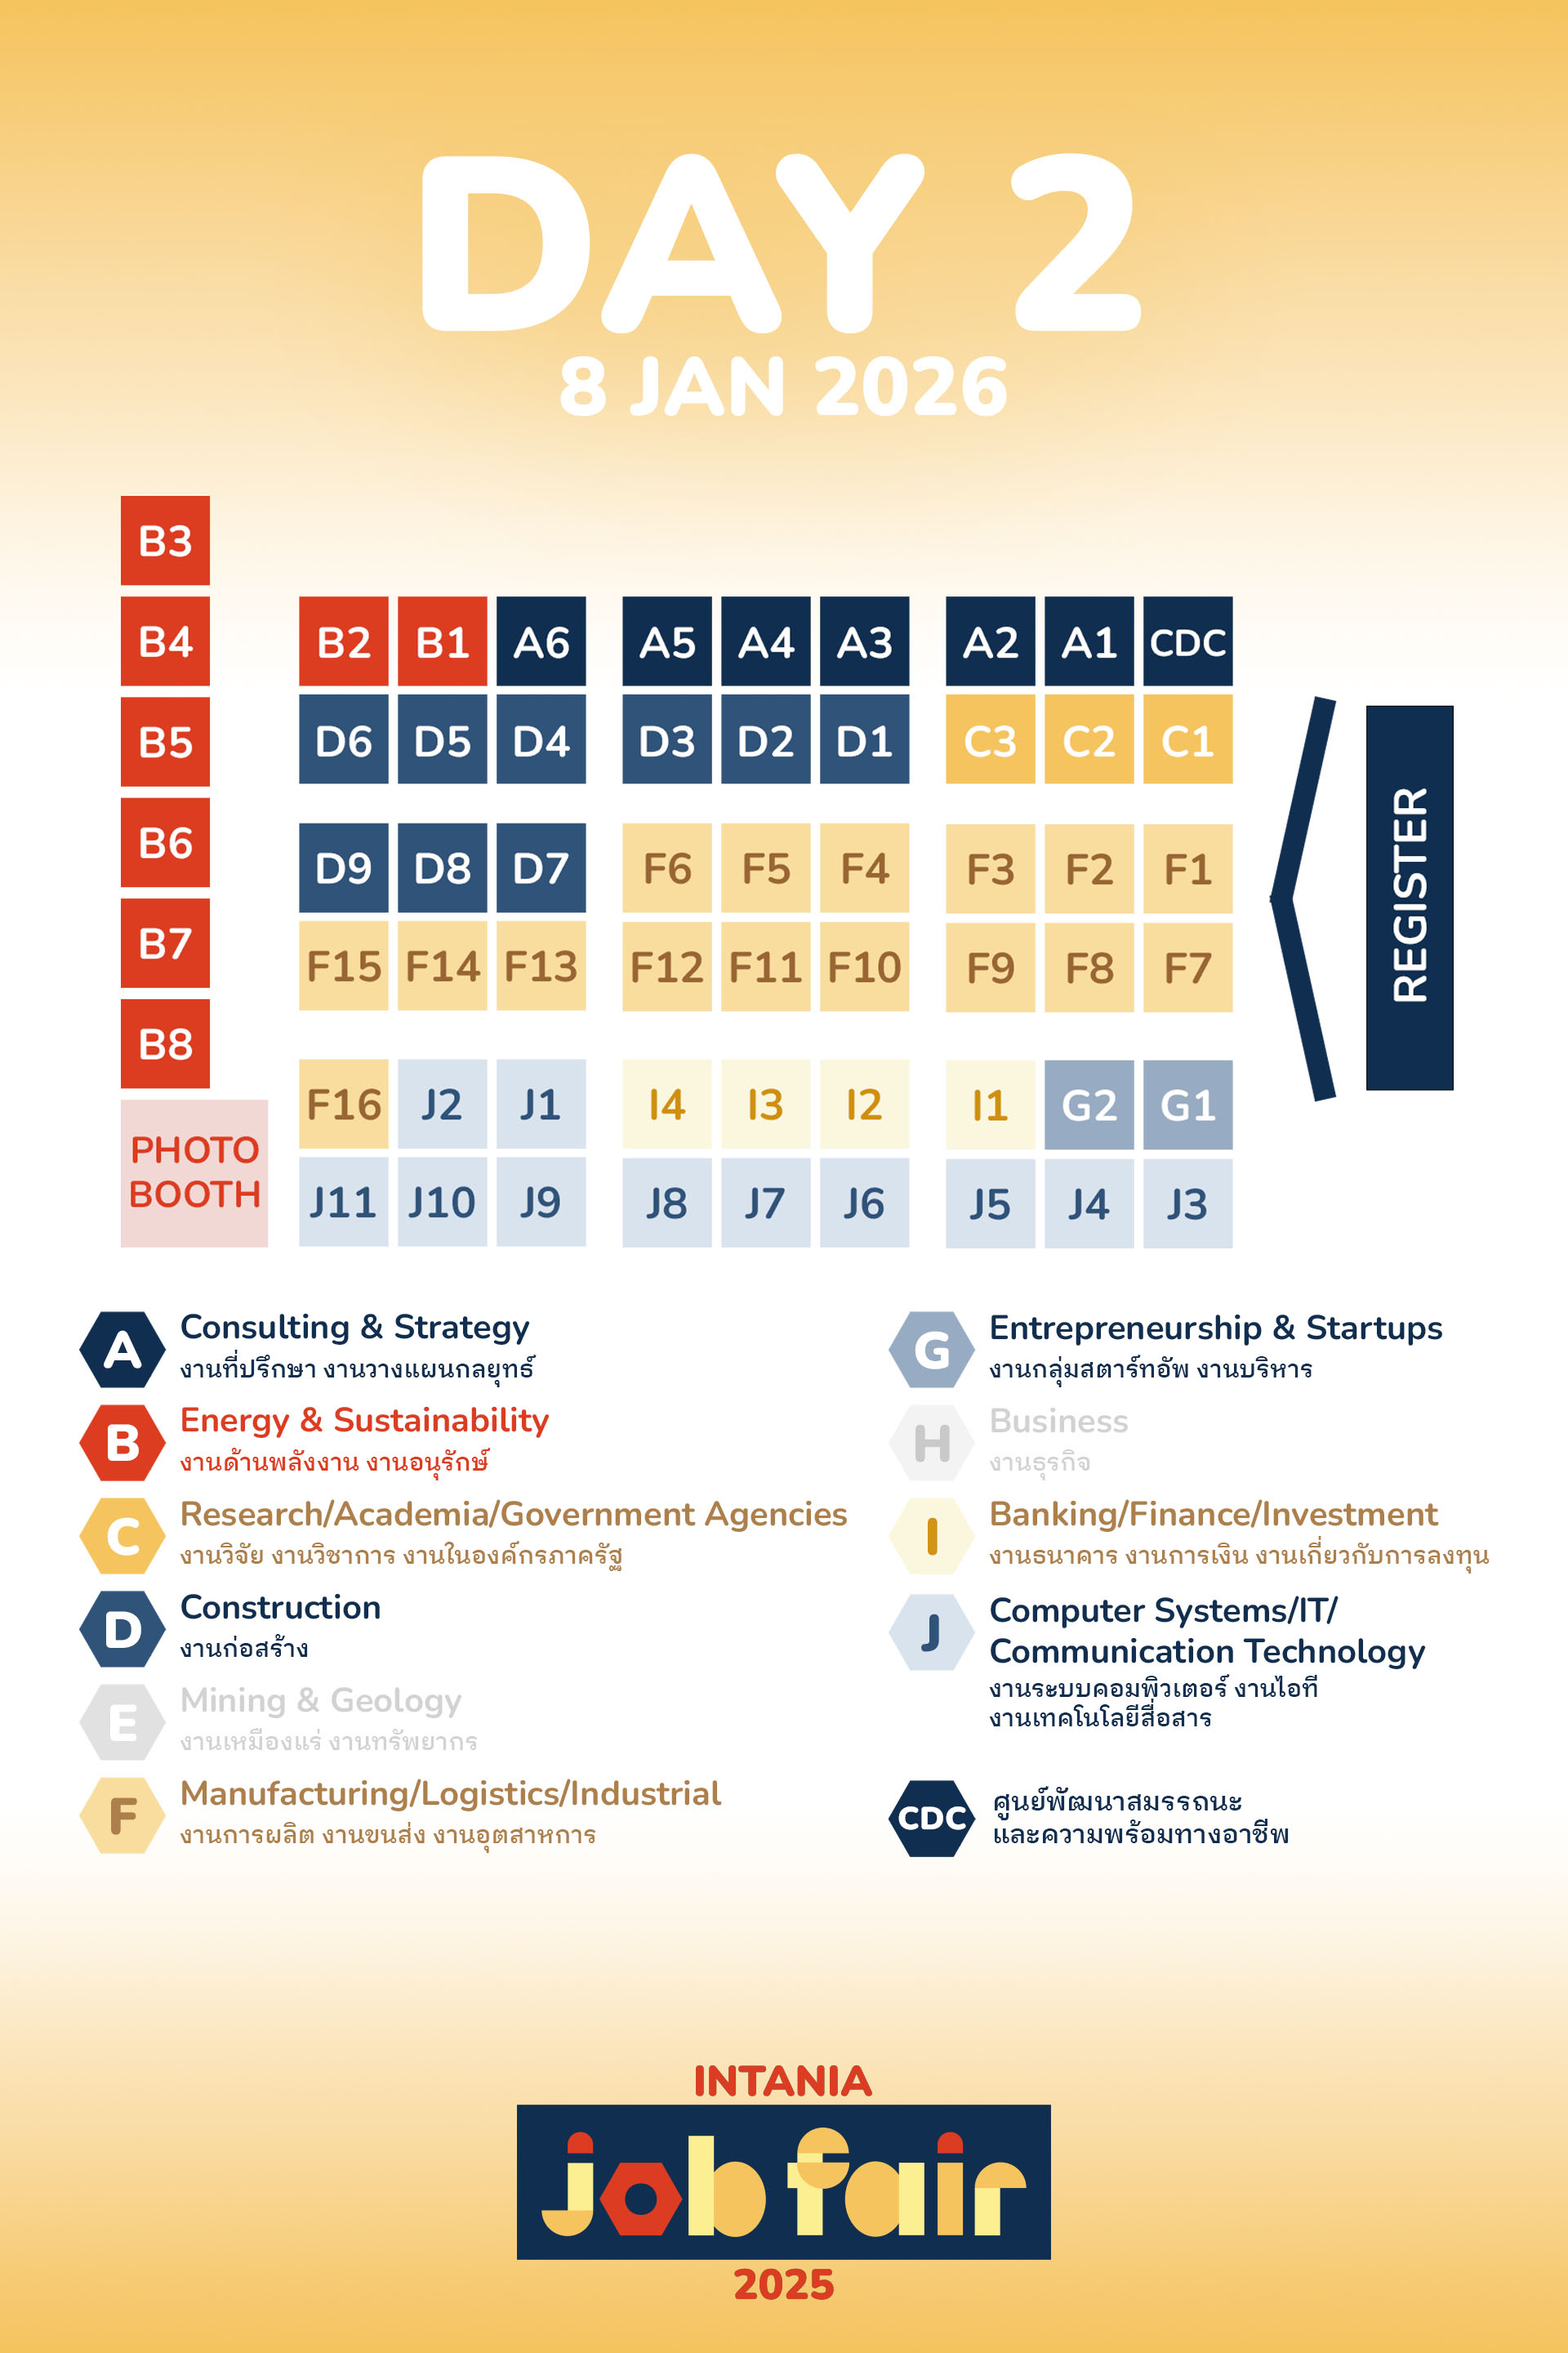
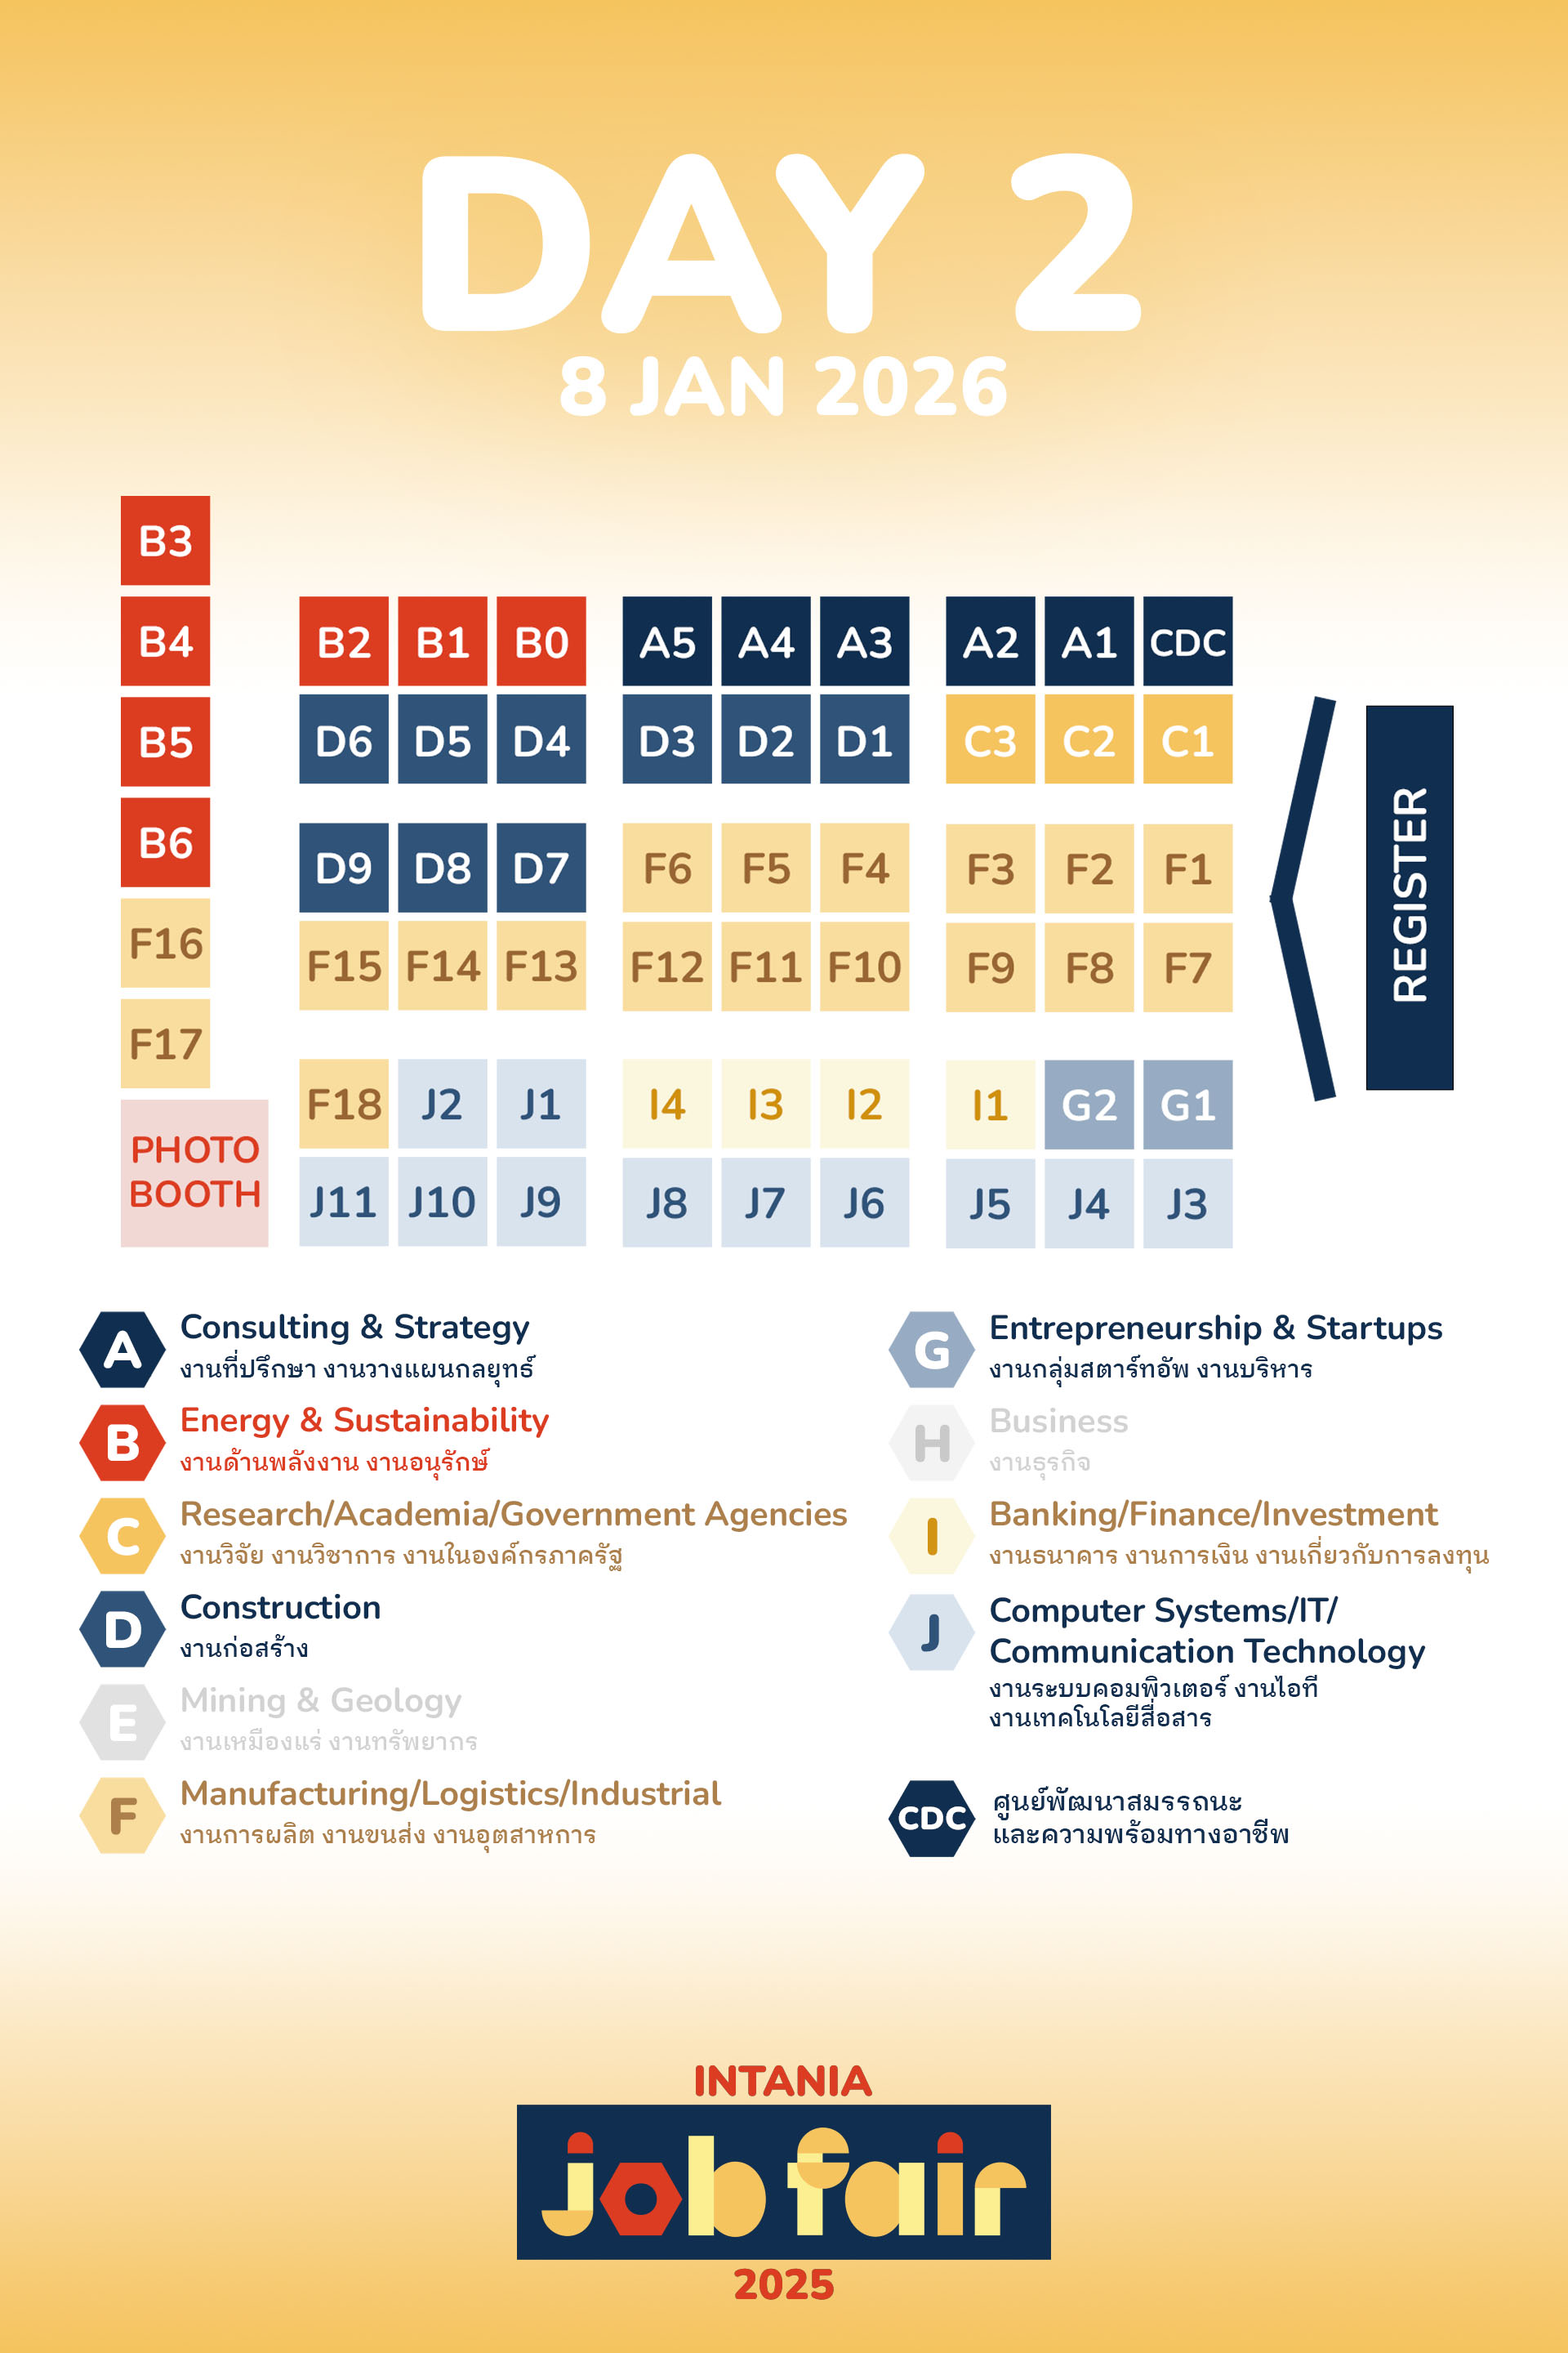
edit map day 2

Changed region(s): [[0.0625, 0.375, 0.1562, 0.4688], [0.3125, 0.25, 0.375, 0.3125]]

diff --git a/app/(home)/sections/booth-map.tsx b/app/(home)/sections/booth-map.tsx
@@ -117,7 +117,7 @@ export default function BoothMap() {
                   </Button>
                 </Link>
                 <Link
-                  href="https://drive.google.com/file/d/175jZV02BvHK8-Jo0TJaIX4wC3i8odifo/view?usp=sharing"
+                  href="https://drive.google.com/file/d/1GZSiC_0YDojoesSIU5JwUP2wLT332wJT/view?usp=sharing"
                   target="_blank"
                   rel="noopener noreferrer"
                   className="w-full"

diff --git a/components/booths/booth-map.tsx b/components/booths/booth-map.tsx
@@ -104,7 +104,7 @@ export default function BoothMap() {
                   </Button>
                 </Link>
                 <Link
-                  href="https://drive.google.com/file/d/175jZV02BvHK8-Jo0TJaIX4wC3i8odifo/view?usp=sharing"
+                  href="https://drive.google.com/file/d/1GZSiC_0YDojoesSIU5JwUP2wLT332wJT/view?usp=sharing"
                   target="_blank"
                   rel="noopener noreferrer"
                   className="w-full"
